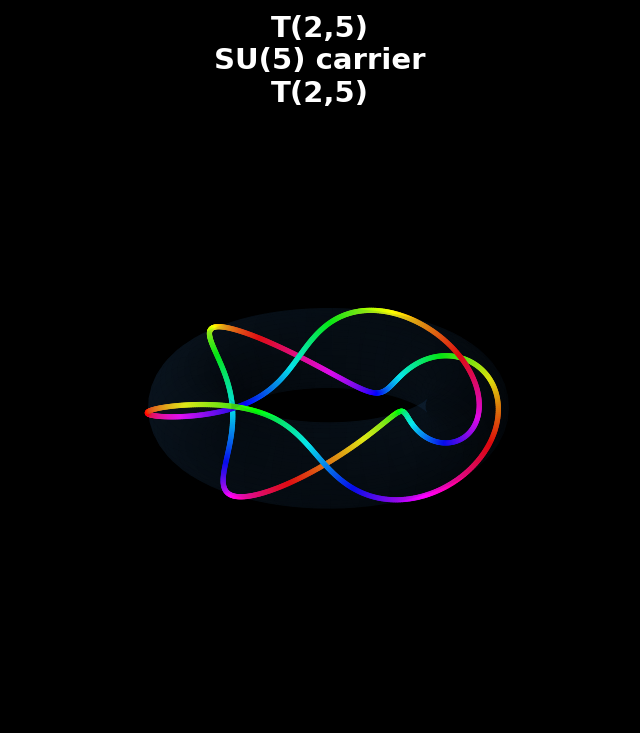
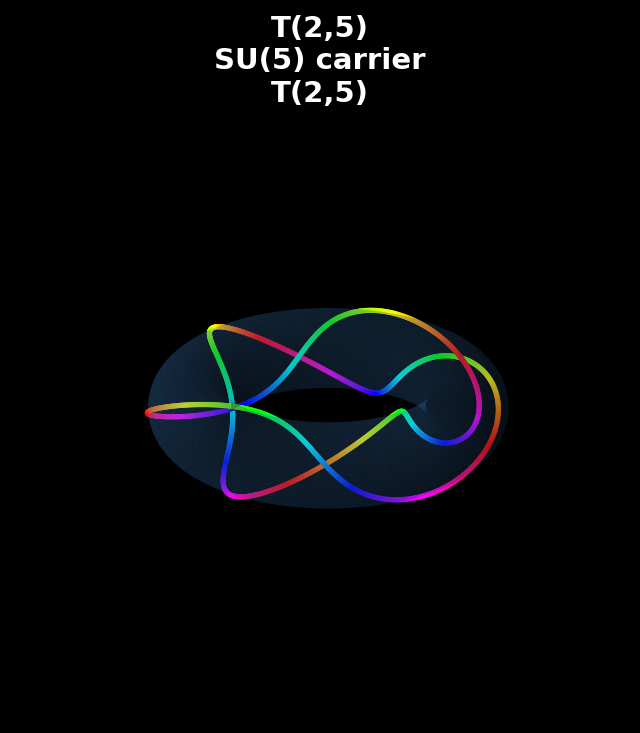
Brighten carrier torus surfaces (alpha 0.08→0.18)

diff --git a/docs/compendium/knot_viz.py b/docs/compendium/knot_viz.py
@@ -72,7 +72,7 @@ def render_particle(p, q, name, symbol, mass_str=None,
 
     # Torus surface (translucent)
     X_t, Y_t, Z_t = torus_surface(R, r)
-    ax.plot_surface(X_t, Y_t, Z_t, alpha=0.08, color='#4488cc',
+    ax.plot_surface(X_t, Y_t, Z_t, alpha=0.18, color='#4488cc',
                     shade=True, edgecolor='none')
 
     # Knot path
@@ -155,7 +155,7 @@ def render_gallery():
 
         R, r = 1.0, 0.3
         X_t, Y_t, Z_t = torus_surface(R, r, N_major=50, N_minor=25)
-        ax.plot_surface(X_t, Y_t, Z_t, alpha=0.06, color='#4488cc',
+        ax.plot_surface(X_t, Y_t, Z_t, alpha=0.15, color='#4488cc',
                         shade=True, edgecolor='none')
 
         X_k, Y_k, Z_k, t = torus_knot_path(p, q, R, r, N=600)
